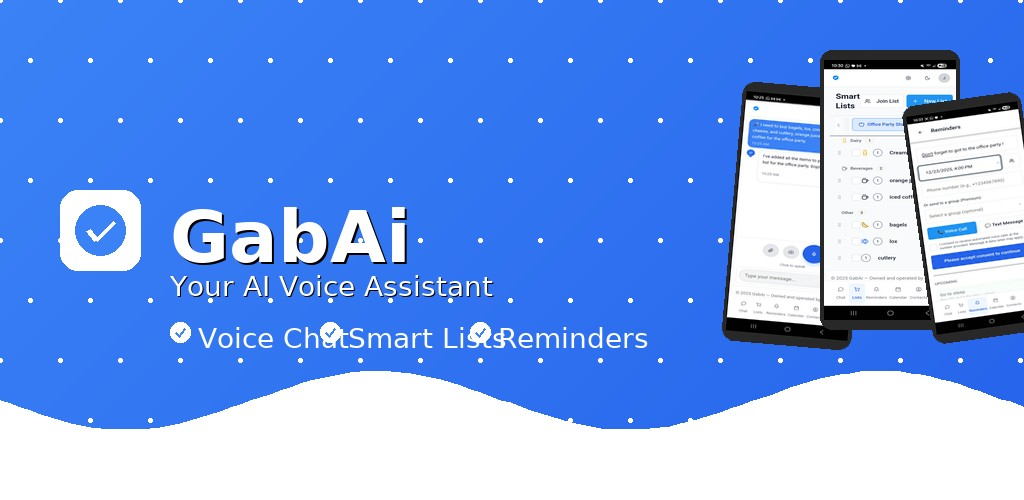
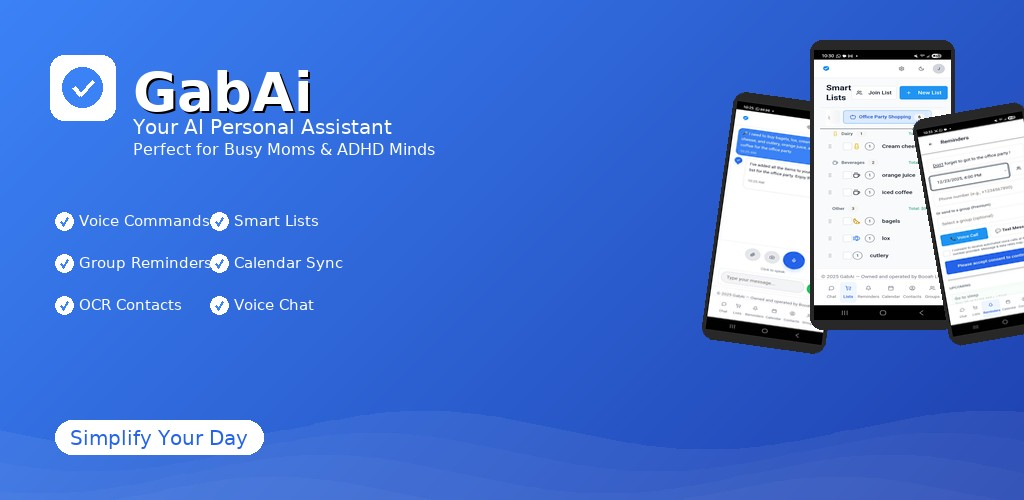
Improve featured graphic design with updated layout and messaging
Update Python script to refine the Google Play featured graphic, adjusting the gradient background, removing rounded rectangles, and adding font handling for improved text rendering and layout.

Replit-Commit-Author: Agent
Replit-Commit-Session-Id: 07cef2af-d445-405f-aad1-c5c28e827206
Replit-Commit-Checkpoint-Type: full_checkpoint
Replit-Commit-Event-Id: 71a12a92-5948-4db1-a44e-4c5ad0e9aaa1
Replit-Commit-Screenshot-Url: https://storage.googleapis.com/screenshot-production-us-central1/4e408980-d84b-4e08-8287-81c1cb50a366/07cef2af-d445-405f-aad1-c5c28e827206/yybtspq

diff --git a/create_featured_graphic.py b/create_featured_graphic.py
@@ -2,15 +2,14 @@
 """
 Create Google Play Featured Graphic for GabAi
 Dimensions: 1024 x 500 pixels
-No AI generation - pure Python/PIL design
 """
 
 from PIL import Image, ImageDraw, ImageFilter, ImageFont
 import os
 import math
 
-def create_gradient_background(width, height, color1, color2, direction='horizontal'):
-    """Create a gradient background."""
+def create_gradient_background(width, height, color1, color2):
+    """Create a diagonal gradient background."""
     base = Image.new('RGB', (width, height), color1)
     top = Image.new('RGB', (width, height), color2)
     mask = Image.new('L', (width, height))
@@ -18,36 +17,22 @@ def create_gradient_background(width, height, color1, color2, direction='horizon
     
     for y in range(height):
         for x in range(width):
-            if direction == 'horizontal':
-                mask_data.append(int(255 * (x / width)))
-            elif direction == 'vertical':
-                mask_data.append(int(255 * (y / height)))
-            elif direction == 'diagonal':
-                mask_data.append(int(255 * ((x + y) / (width + height))))
-            else:
-                mask_data.append(int(255 * (x / width)))
+            mask_data.append(int(255 * ((x + y) / (width + height))))
     
     mask.putdata(mask_data)
     base.paste(top, (0, 0), mask)
     return base
 
-def draw_rounded_rect(draw, coords, radius, fill):
-    """Draw a rounded rectangle."""
-    x1, y1, x2, y2 = coords
-    draw.rounded_rectangle(coords, radius=radius, fill=fill)
-
 def create_phone_mockup_mini(screenshot_path, size=(120, 240)):
-    """Create a mini phone mockup for the featured graphic."""
+    """Create a mini phone mockup."""
     try:
-        screenshot = Image.open(screenshot_path)
-        screenshot = screenshot.convert("RGBA")
+        screenshot = Image.open(screenshot_path).convert("RGBA")
     except:
         screenshot = Image.new("RGBA", (1080, 2280), (255, 255, 255, 255))
     
     device_width, device_height = size
     bezel = 4
     corner_radius = 12
-    
     screen_width = device_width - (bezel * 2)
     screen_height = device_height - 20
     
@@ -55,62 +40,65 @@ def create_phone_mockup_mini(screenshot_path, size=(120, 240)):
     
     device = Image.new("RGBA", (device_width, device_height), (0, 0, 0, 0))
     device_draw = ImageDraw.Draw(device)
-    
-    device_draw.rounded_rectangle(
-        [0, 0, device_width - 1, device_height - 1],
-        radius=corner_radius,
-        fill=(40, 40, 40, 255)
-    )
-    
+    device_draw.rounded_rectangle([0, 0, device_width - 1, device_height - 1], radius=corner_radius, fill=(40, 40, 40, 255))
     device.paste(screenshot_resized, (bezel, 10))
     
     return device
+
+def get_fonts():
+    """Get available fonts."""
+    font_paths = [
+        "/usr/share/fonts/truetype/dejavu/DejaVuSans-Bold.ttf",
+        "/nix/store/57xv61c5zi8pphjbcwxxjlgc34p61ic9-dejavu-fonts-2.37/share/fonts/truetype/DejaVuSans-Bold.ttf",
+    ]
+    
+    for fp in font_paths:
+        if os.path.exists(fp):
+            return {
+                'title': ImageFont.truetype(fp, 54),
+                'tagline': ImageFont.truetype(fp.replace("-Bold", ""), 20),
+                'small': ImageFont.truetype(fp.replace("-Bold", ""), 16),
+                'feature': ImageFont.truetype(fp.replace("-Bold", ""), 15),
+            }
+    
+    import glob
+    dejavu_files = glob.glob("/nix/store/*/share/fonts/truetype/DejaVuSans-Bold.ttf")
+    if dejavu_files:
+        fp = dejavu_files[0]
+        return {
+            'title': ImageFont.truetype(fp, 54),
+            'tagline': ImageFont.truetype(fp.replace("-Bold", ""), 20),
+            'small': ImageFont.truetype(fp.replace("-Bold", ""), 16),
+            'feature': ImageFont.truetype(fp.replace("-Bold", ""), 15),
+        }
+    
+    default = ImageFont.load_default()
+    return {'title': default, 'tagline': default, 'small': default, 'feature': default}
 
 def create_featured_graphic():
     """Create the main featured graphic."""
     width = 1024
     height = 500
     
-    background = create_gradient_background(
-        width, height,
-        (59, 130, 246),
-        (37, 99, 235),
-        'diagonal'
-    )
-    
+    background = create_gradient_background(width, height, (59, 130, 246), (30, 64, 175))
+    background = background.convert('RGBA')
     draw = ImageDraw.Draw(background)
     
-    for i in range(0, width, 60):
-        for j in range(0, height, 60):
-            offset_x = 30 if (j // 60) % 2 == 1 else 0
-            x = i + offset_x
-            y = j
-            draw.ellipse([x - 2, y - 2, x + 2, y + 2], fill=(255, 255, 255, 30))
-    
-    wave_color = (255, 255, 255, 20)
-    for wave_offset in range(0, 3):
-        points = []
-        for x in range(0, width + 20, 10):
-            y = height - 100 + wave_offset * 30 + int(30 * math.sin((x + wave_offset * 50) / 80))
-            points.append((x, y))
-        points.append((width, height))
-        points.append((0, height))
-        draw.polygon(points, fill=(255, 255, 255, 15 + wave_offset * 5))
+    wave_layer = Image.new('RGBA', (width, height), (0, 0, 0, 0))
+    wave_draw = ImageDraw.Draw(wave_layer)
+    for wave_offset in range(4):
+        points = [(x, height - 70 + wave_offset * 22 + int(20 * math.sin((x + wave_offset * 50) / 90))) for x in range(0, width + 10, 5)]
+        points.extend([(width, height), (0, height)])
+        wave_draw.polygon(points, fill=(255, 255, 255, 15 + wave_offset * 6))
+    background = Image.alpha_composite(background, wave_layer)
     
     overlay = Image.new('RGBA', (width, height), (0, 0, 0, 0))
-    overlay_draw = ImageDraw.Draw(overlay)
-    
     screenshots = [
         "attached_assets/Screenshot_20251127_102527_GabAi_1764262020485.jpg",
         "attached_assets/Screenshot_20251127_103036_GabAi_1764262020468.jpg",
         "attached_assets/Screenshot_20251127_103307_GabAi_1764262020435.jpg",
     ]
-    
-    phone_positions = [
-        (720, 80, (130, 260), -5),
-        (820, 50, (140, 280), 0),
-        (900, 90, (120, 240), 8),
-    ]
+    phone_positions = [(700, 90, (125, 250), -8), (810, 40, (145, 290), 0), (910, 100, (115, 230), 10)]
     
     for i, (x, y, size, angle) in enumerate(phone_positions):
         if i < len(screenshots) and os.path.exists(screenshots[i]):
@@ -119,82 +107,64 @@ def create_featured_graphic():
                 phone = phone.rotate(angle, expand=True, resample=Image.Resampling.BICUBIC)
             overlay.paste(phone, (x, y), phone)
     
-    background = background.convert('RGBA')
     background = Image.alpha_composite(background, overlay)
-    
     draw = ImageDraw.Draw(background)
+    fonts = get_fonts()
     
-    logo_size = 80
-    logo_x = 60
-    logo_y = height // 2 - 60
+    logo_size = 65
+    logo_x, logo_y = 50, 55
+    draw.rounded_rectangle([logo_x, logo_y, logo_x + logo_size, logo_y + logo_size], radius=14, fill=(255, 255, 255))
+    cx, cy = logo_x + logo_size // 2, logo_y + logo_size // 2
+    draw.ellipse([cx - 20, cy - 20, cx + 20, cy + 20], fill=(59, 130, 246))
+    draw.line([(cx - 9, cy), (cx - 2, cy + 8)], fill=(255, 255, 255), width=4)
+    draw.line([(cx - 2, cy + 8), (cx + 11, cy - 6)], fill=(255, 255, 255), width=4)
     
-    draw.rounded_rectangle(
-        [logo_x, logo_y, logo_x + logo_size, logo_y + logo_size],
-        radius=18,
-        fill=(255, 255, 255, 255)
-    )
+    title_x = logo_x + logo_size + 18
+    draw.text((title_x + 2, logo_y + 7), "GabAi", font=fonts['title'], fill=(0, 0, 0, 80))
+    draw.text((title_x, logo_y + 5), "GabAi", font=fonts['title'], fill=(255, 255, 255))
     
-    check_color = (59, 130, 246)
-    cx = logo_x + logo_size // 2
-    cy = logo_y + logo_size // 2
+    draw.text((title_x, logo_y + 60), "Your AI Personal Assistant", font=fonts['tagline'], fill=(255, 255, 255, 240))
+    draw.text((title_x, logo_y + 85), "Perfect for Busy Moms & ADHD Minds", font=fonts['small'], fill=(255, 255, 255, 200))
     
-    draw.ellipse([cx - 25, cy - 25, cx + 25, cy + 25], fill=check_color)
-    
-    check_points = [
-        (cx - 12, cy),
-        (cx - 4, cy + 10),
-        (cx + 14, cy - 8)
-    ]
-    draw.line(check_points[0:2], fill=(255, 255, 255), width=5)
-    draw.line(check_points[1:3], fill=(255, 255, 255), width=5)
-    
-    try:
-        title_font = ImageFont.truetype("/usr/share/fonts/truetype/dejavu/DejaVuSans-Bold.ttf", 72)
-        tagline_font = ImageFont.truetype("/usr/share/fonts/truetype/dejavu/DejaVuSans.ttf", 28)
-    except:
-        try:
-            title_font = ImageFont.truetype("/nix/store/*/share/fonts/truetype/dejavu/DejaVuSans-Bold.ttf", 72)
-            tagline_font = ImageFont.truetype("/nix/store/*/share/fonts/truetype/dejavu/DejaVuSans.ttf", 28)
-        except:
-            title_font = ImageFont.load_default()
-            tagline_font = ImageFont.load_default()
-    
-    title_x = logo_x + logo_size + 30
-    title_y = logo_y + 5
-    
-    draw.text((title_x + 2, title_y + 2), "GabAi", font=title_font, fill=(0, 0, 0, 80))
-    draw.text((title_x, title_y), "GabAi", font=title_font, fill=(255, 255, 255))
-    
-    tagline = "Your AI Voice Assistant"
-    tagline_y = title_y + 75
-    draw.text((title_x + 1, tagline_y + 1), tagline, font=tagline_font, fill=(0, 0, 0, 60))
-    draw.text((title_x, tagline_y), tagline, font=tagline_font, fill=(255, 255, 255, 230))
-    
-    features = ["Voice Chat", "Smart Lists", "Reminders"]
-    feature_x = title_x
-    feature_y = tagline_y + 50
+    features = ["Voice Commands", "Smart Lists", "Group Reminders", "Calendar Sync"]
+    feature_y = 210
+    feature_x = 55
+    spacing_x = 155
+    spacing_y = 42
     
     for i, feature in enumerate(features):
-        fx = feature_x + i * 150
+        row, col = i // 2, i % 2
+        fx = feature_x + col * spacing_x
+        fy = feature_y + row * spacing_y
         
-        draw.ellipse([fx, feature_y + 2, fx + 20, feature_y + 22], fill=(255, 255, 255, 200))
-        draw.line([(fx + 5, feature_y + 12), (fx + 9, feature_y + 16)], fill=check_color, width=2)
-        draw.line([(fx + 9, feature_y + 16), (fx + 15, feature_y + 8)], fill=check_color, width=2)
-        
-        draw.text((fx + 28, feature_y + 2), feature, font=tagline_font, fill=(255, 255, 255, 200))
+        draw.ellipse([fx, fy + 2, fx + 18, fy + 20], fill=(255, 255, 255, 230))
+        draw.line([(fx + 5, fy + 11), (fx + 8, fy + 15)], fill=(59, 130, 246), width=2)
+        draw.line([(fx + 8, fy + 15), (fx + 13, fy + 7)], fill=(59, 130, 246), width=2)
+        draw.text((fx + 24, fy + 2), feature, font=fonts['feature'], fill=(255, 255, 255, 240))
+    
+    more_features = ["OCR Contacts", "Voice Chat"]
+    for i, feature in enumerate(more_features):
+        fx = feature_x + i * spacing_x
+        fy = feature_y + 2 * spacing_y
+        draw.ellipse([fx, fy + 2, fx + 18, fy + 20], fill=(255, 255, 255, 230))
+        draw.line([(fx + 5, fy + 11), (fx + 8, fy + 15)], fill=(59, 130, 246), width=2)
+        draw.line([(fx + 8, fy + 15), (fx + 13, fy + 7)], fill=(59, 130, 246), width=2)
+        draw.text((fx + 24, fy + 2), feature, font=fonts['feature'], fill=(255, 255, 255, 240))
+    
+    cta_text = "Simplify Your Day"
+    cta_y = 420
+    cta_x = 55
+    cta_bbox = draw.textbbox((0, 0), cta_text, font=fonts['tagline'])
+    cta_width = cta_bbox[2] - cta_bbox[0] + 30
+    draw.rounded_rectangle([cta_x, cta_y, cta_x + cta_width, cta_y + 34], radius=17, fill=(255, 255, 255))
+    draw.text((cta_x + 15, cta_y + 6), cta_text, font=fonts['tagline'], fill=(37, 99, 235))
     
     final = background.convert('RGB')
-    
-    output_path = "mockups/featured_graphic.png"
-    final.save(output_path, "PNG", quality=95)
-    print(f"Created: {output_path} ({width}x{height})")
-    
-    output_jpg = "mockups/featured_graphic.jpg"
-    final.save(output_jpg, "JPEG", quality=90)
-    print(f"Created: {output_jpg} ({width}x{height})")
-    
+    final.save("mockups/featured_graphic.png", "PNG", quality=95)
+    final.save("mockups/featured_graphic.jpg", "JPEG", quality=90)
+    print(f"Created: mockups/featured_graphic.png (1024x500)")
+    print(f"Created: mockups/featured_graphic.jpg (1024x500)")
     return final
-
 
 if __name__ == "__main__":
     os.makedirs("mockups", exist_ok=True)
